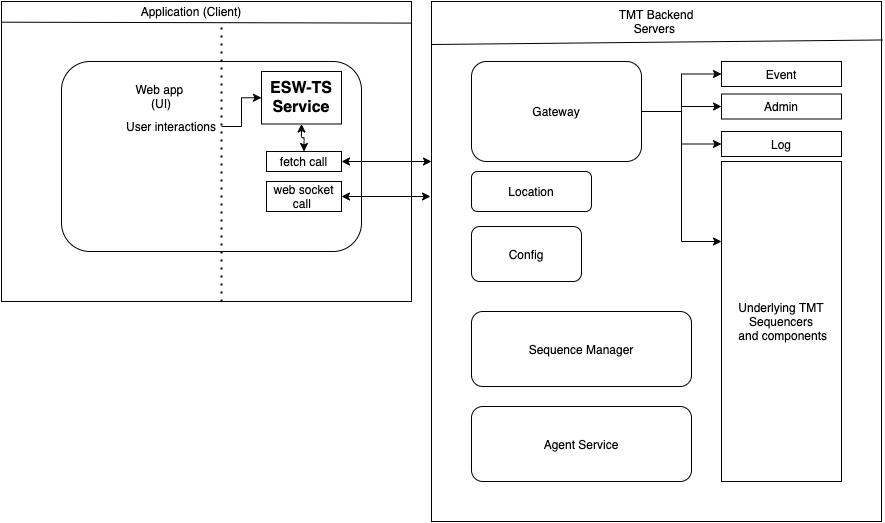
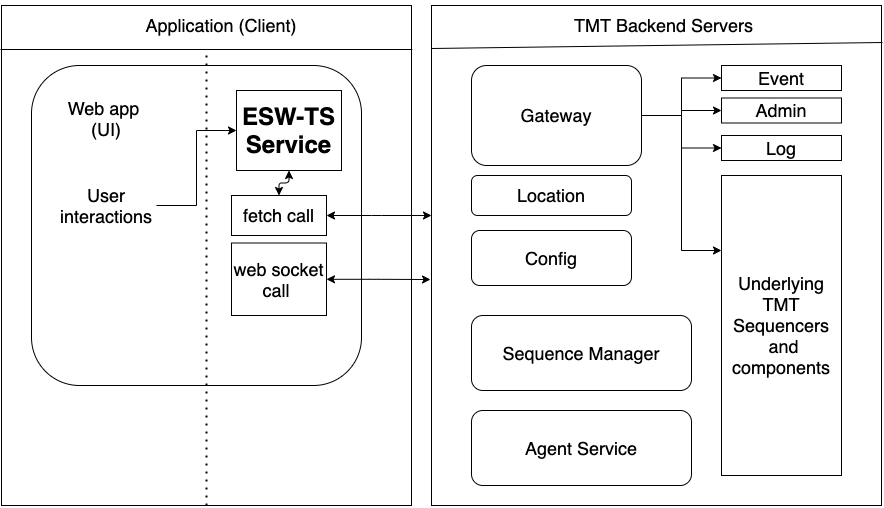
ESW-000: Manish : move service contract  to its seperate page. update architecture diagram.

diff --git a/docs/src/main/common/contract.md b/docs/src/main/common/contract.md
@@ -1,0 +1,13 @@
+# Service Contract
+
+- [ESW Services Contract](https://github.com/tmtsoftware/tmtsoftware.github.io/tree/master/esw/$esw-version$/contracts)
+    - [Event service](https://github.com/tmtsoftware/tmtsoftware.github.io/tree/master/esw/$esw-version$/contracts/gateway-service)
+    - [Admin service](https://github.com/tmtsoftware/tmtsoftware.github.io/tree/master/esw/$esw-version$/contracts/gateway-service)
+    - [Logging service](https://github.com/tmtsoftware/tmtsoftware.github.io/tree/master/esw/$esw-version$/contracts/gateway-service)
+    - [Sequencer service](https://github.com/tmtsoftware/tmtsoftware.github.io/tree/master/esw/$esw-version$/contracts/sequencer-service)
+    - [Agent service](https://github.com/tmtsoftware/tmtsoftware.github.io/tree/master/esw/$esw-version$/contracts/agent-service)
+    - [Sequence Manager Service](https://github.com/tmtsoftware/tmtsoftware.github.io/tree/master/esw/$esw-version$/contracts/sequence-manager-service)
+- [CSW Services Contract ](https://github.com/tmtsoftware/tmtsoftware.github.io/tree/master/csw/$csw-version$/contracts)
+    - [Location service](https://github.com/tmtsoftware/tmtsoftware.github.io/tree/master/csw/$csw-version$/contracts/location-service)
+    - [Command service](https://github.com/tmtsoftware/tmtsoftware.github.io/tree/master/csw/$csw-version$/contracts/command-service)
+    - [Config service](https://github.com/tmtsoftware/tmtsoftware.github.io/tree/master/csw/$csw-version$/contracts/config-service)

diff --git a/docs/src/main/services/index.md b/docs/src/main/services/index.md
@@ -2,10 +2,6 @@
 
 These are javascript adapters for each of public facing TMT services. They provide a handle to interact with backend server while adhering to the service contract.
 
-- Service contracts for esw services : [ESW Services Contract](https://github.com/tmtsoftware/tmtsoftware.github.io/tree/master/esw/$esw-version$/contracts)
-
-- Service contracts for csw services : [CSW Services Contract ](https://github.com/tmtsoftware/tmtsoftware.github.io/tree/master/csw/$csw-version$/contracts)
-
 ## Architecture
 
 TMT Services are behind @extref:[ESW Gateway Server](esw:eswgateway/esw-gateway.html) except Location and Config Server.

diff --git a/docs/src/main/index.md b/docs/src/main/index.md
@@ -6,6 +6,7 @@
  - @ref:[Services](services/index.md)
  - @ref:[Params](params/index.md)
  - @ref:[AAS](aas/csw-aas-js.md)
+ - @ref:[Service Contract](common/contract.md)
  - @ref:[Error handling](common/error-handling.md)
  - @ref:[Technical design documentation](technical/index.md)
 
